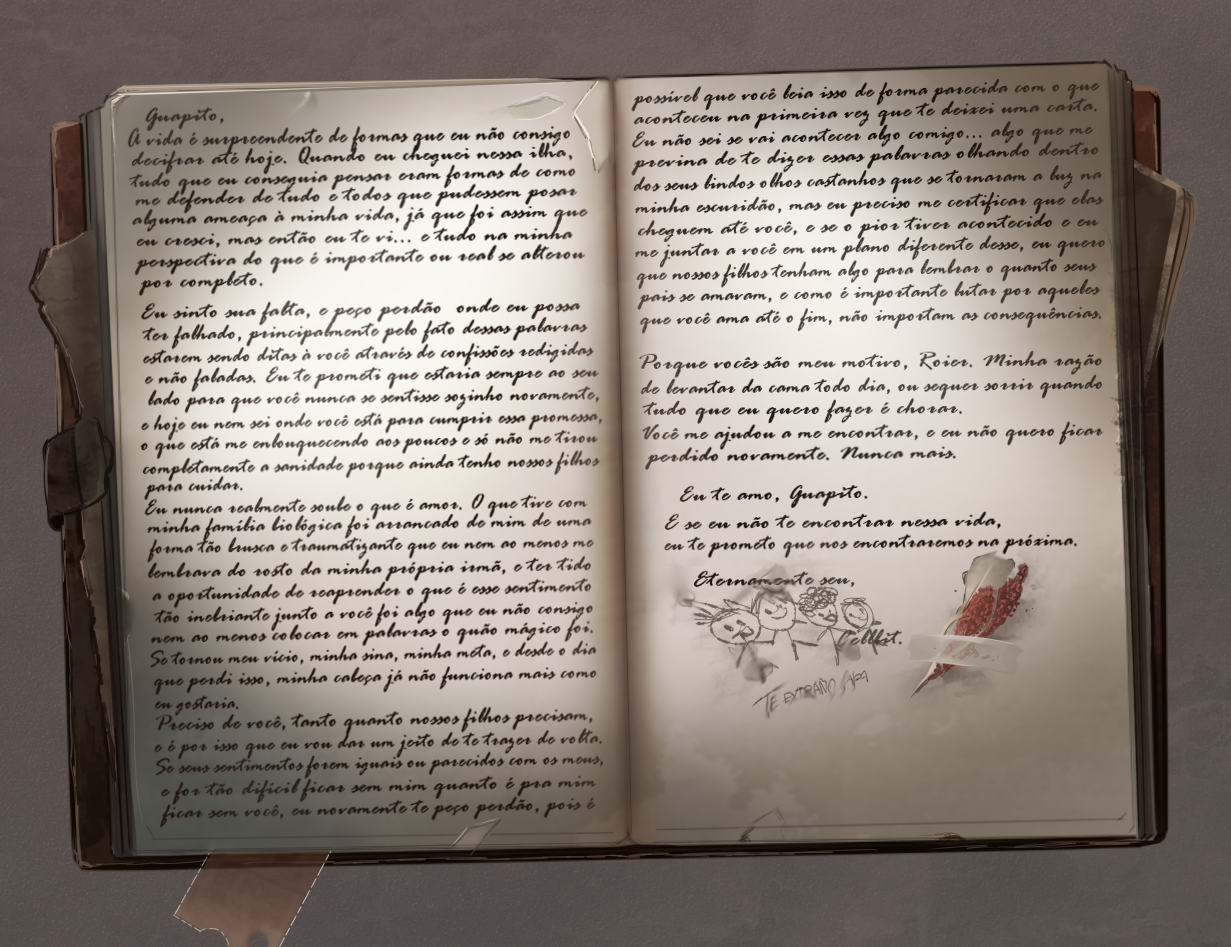
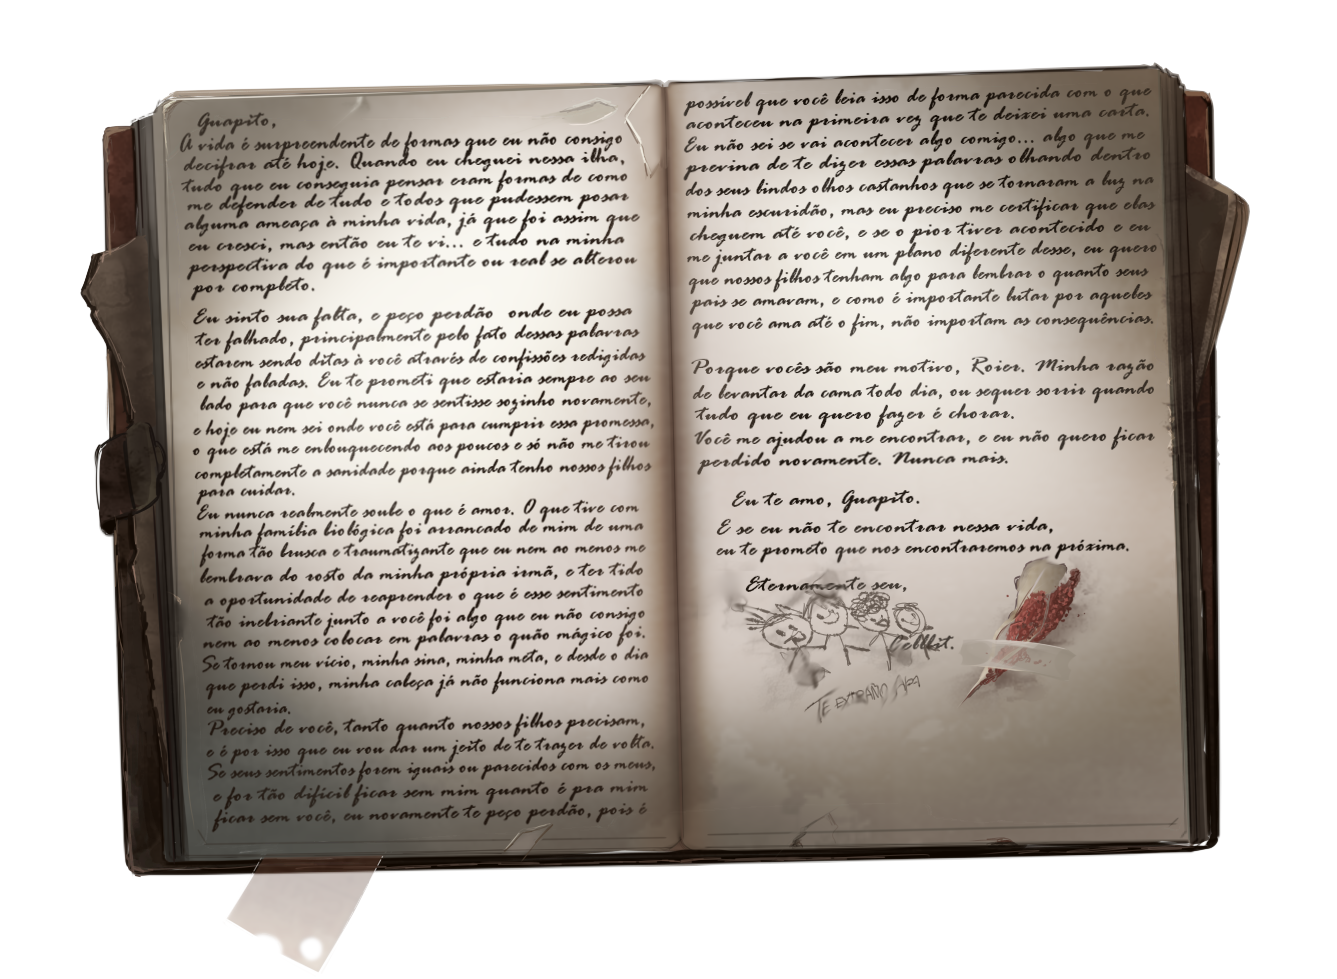
adiciona pag saud/faml && design das pag

diff --git a/src/layouts/PageLayout/index.tsx b/src/layouts/PageLayout/index.tsx
@@ -1,22 +1,28 @@
-import { Outlet } from "react-router-dom";
+import { Outlet, useLocation } from "react-router-dom";
 import Header from "../../components/Header";
 import FooterWip from "../../components/FooterWip";
+import HeaderPista from "../../components/HeaderPista";
+import FooterPista from "../../components/FooterPista";
 import styles from "./index.module.scss";
 import { useContext } from "react";
 import { ThemeContext } from '../../contexts/ThemeContext';
 
 const PageLayout = () =>{
     const { theme } = useContext(ThemeContext);
+    const location = useLocation();
 
     document.body.classList.add('background-main');
 
+    const paginasPistas = ['/sempreteamarei', '/saudade', '/familia'];
+    const isPaginasPistas = paginasPistas.includes(location.pathname);
+
     return(
         <>
-            <Header/>
+            {isPaginasPistas ? <HeaderPista /> : <Header/>}
             <main role="main" className={`${styles.main} ${styles[theme]}`}>
                 <Outlet/>
             </main>
-            <FooterWip/>
+            {isPaginasPistas ? <FooterPista /> : <FooterWip/>}
         </>
     );
 }

diff --git a/src/routes/index.tsx b/src/routes/index.tsx
@@ -5,6 +5,8 @@ import NotFound from "../pages/NotFound";
 import Perpetuo from "../pages/Perpetuo";
 import Wip from "../pages/Wip";
 import SempreTeAmarei from "../pages/SempreTeAmarei";
+import Saudade from "../pages/Saudade";
+import Familia from "../pages/Familia";
 
 export const Paths = () => {
     return (
@@ -16,6 +18,8 @@ export const Paths = () => {
                         <Route path={'/login'} element={<Login />} />
                         <Route path={'/perpetuo'} element={<Perpetuo />} />
                         <Route path={'/sempreteamarei'} element={<SempreTeAmarei />} />
+                        <Route path={'/saudade'} element={<Saudade />} />
+                        <Route path={'/familia'} element={<Familia />} />
                         {/* <Route index element={<Home />}/>
                         <Route path={'/Guapoverso'} element={<Guapoverso />}/>
                         <Route path={'/Categoria'}element={<Categoria />}/>

diff --git a/src/components/HeaderPista/index.tsx b/src/components/HeaderPista/index.tsx
@@ -1,0 +1,28 @@
+import { useContext } from "react";
+import { Link } from "react-router-dom";
+import styles from "./index.module.scss";
+import logo from "/image/components/Logo.png";
+import { ThemeContext } from "../../contexts/ThemeContext";
+import BotaoMudarTema from "../BotaoMudarTema";
+
+const Header = () => {
+
+  const { theme } = useContext(ThemeContext);
+
+  return (
+    <header className={`${styles.header} ${styles[theme]}`}>
+      <div className={`${styles.headerContent} wrapper`}>
+        <div className={styles.logoHeader}>
+          <div className={styles.logoHeaderImg}>
+            <img src={logo} alt="Logo do Acervo Amaranto" />
+          </div>
+          <div className={styles.logoHeaderText}>
+            <Link to="/">Acervo Amaranto</Link>
+          </div>
+        </div>
+      </div>
+    </header>
+  );
+};
+
+export default Header;

diff --git a/src/components/FooterPista/index.module.scss b/src/components/FooterPista/index.module.scss
@@ -1,0 +1,39 @@
+@use '../../styles/cores/cores' as *;
+
+.footer {
+    height: 194px;
+    position: fixed;
+    bottom: 0;
+    width: 100vw;
+    z-index: 1000;
+    display: flex;
+    background-color: transparent;
+    .logoFooterText span {
+        color: $dourado;
+    }
+    .logoFooter {
+        display: flex;
+        justify-content: center;
+        img {
+            width: 122px;
+        }
+    }
+
+    .logoFooterText {
+        display: flex;
+        flex-direction: column;
+        margin-block: auto;
+        justify-content: space-between;
+        span {
+            font-family: "Figtree";
+            font-weight: 700;
+            line-height: 1;
+            &:nth-child(1) {
+                font-size: 30px;
+            }
+            &:nth-child(2) {
+                font-size: 40px;
+            }
+        }
+    }
+}

diff --git a/src/components/FooterPista/index.tsx b/src/components/FooterPista/index.tsx
@@ -1,0 +1,26 @@
+import { useContext } from 'react';
+import { ThemeContext } from '../../contexts/ThemeContext';
+import logo from "/image/components/Logo.png";
+
+import styles from "./index.module.scss";
+
+const FooterWip = () =>{
+
+    const { theme } = useContext(ThemeContext);
+
+    return(
+        <footer className={`${styles.footer} ${styles[theme]}`}>
+            <div className={`${styles.logoFooter} wrapper`}>
+                <div className={styles.logoFooterImg}>
+                    <img src={logo} alt="Logo do Acervo Amaranto" />
+                </div>
+                <div className={styles.logoFooterText}>
+                    <span>Acervo</span>
+                    <span>Amaranto</span>
+                </div>
+            </div>
+        </footer>
+    );
+}
+
+export default FooterWip;

diff --git a/src/components/HeaderPista/index.module.scss b/src/components/HeaderPista/index.module.scss
@@ -1,0 +1,39 @@
+@import '../../styles/index.scss';
+
+.header {
+  display: flex;
+  align-items: center;
+  height: 64px;
+  position: fixed;
+  top: 0;
+  width: 100%;
+  background-color: transparent;
+  .logoHeaderText a {
+    color: $dourado;
+  }
+  .headerContent {
+    display: flex;
+    justify-content: space-between;
+    width: 100%;
+    .logoHeader {
+      display: flex;
+      cursor: pointer;
+      img {
+        width: 55px;
+      }
+      .logoHeaderText {
+        display: flex;
+        margin-block: auto;
+        justify-content: center;
+        font-size: 18px;
+        a {
+          font-family: "Figtree";
+          // acho q um mais perto do bold fica melhor
+          font-weight: 600;
+          // font-weight: 470;
+          line-height: 1;
+        }
+      }
+    }
+  }
+}

diff --git a/src/pages/SempreTeAmarei/index.module.scss b/src/pages/SempreTeAmarei/index.module.scss
@@ -1,7 +1,22 @@
 div.container {
-    margin-top: 64px;
     display: flex;
     justify-content: center;
-    z-index: 900;
-    height: calc(100vh - 64px - 193px);
+    height: 100vh;
+    background-image: url("../../../public/image/iefgda/background-livro.png");
+    background-size: cover;
+    img {
+        max-height: calc(100vh - 64px - 193px);
+        margin-top: 64px;
+    }
 }
+
+@media (max-width: 1024px) {
+    div.container {
+        img {
+            max-width: 100vw;
+            height: auto;
+            object-fit: contain;
+        }
+    }
+}
+

diff --git a/src/pages/Familia/index.tsx b/src/pages/Familia/index.tsx
@@ -1,0 +1,16 @@
+import { Helmet } from 'react-helmet';
+import aquilo from '/image/iefgda/Richas FAMÍLIA.png?url';
+import styles from './index.module.scss';
+const SempreTeAmarei = () => {
+
+  return (
+    <>
+      <Helmet> <title> Família </title> </Helmet>
+      <div className={styles.container} >
+        <img src={aquilo} className={styles.imagem} alt="guapoduo" />
+      </div>
+    </>
+  )
+}
+
+export default SempreTeAmarei;

diff --git a/src/pages/Saudade/index.tsx b/src/pages/Saudade/index.tsx
@@ -1,0 +1,16 @@
+import { Helmet } from 'react-helmet';
+import aquilo from '/image/iefgda/Pepito SAUDADE.png?url';
+import styles from './index.module.scss';
+const SempreTeAmarei = () => {
+
+  return (
+    <>
+      <Helmet> <title> Saudade </title> </Helmet>
+      <div className={styles.container} >
+        <img src={aquilo} className={styles.imagem} alt="guapoduo" />
+      </div>
+    </>
+  )
+}
+
+export default SempreTeAmarei;

diff --git a/src/pages/Familia/index.module.scss b/src/pages/Familia/index.module.scss
@@ -1,0 +1,11 @@
+div.container {
+    display: flex;
+    justify-content: center;
+    height: 100vh;
+    background-image: url("../../../public/image/iefgda/background-livro.png");
+    background-size: cover;
+    img {
+        height: calc(100vh - 64px - 193px);
+        margin-top: 64px;
+    }
+}

diff --git a/src/pages/Saudade/index.module.scss b/src/pages/Saudade/index.module.scss
@@ -1,0 +1,11 @@
+div.container {
+    display: flex;
+    justify-content: center;
+    height: 100vh;
+    background-image: url("../../../public/image/iefgda/background-livro.png");
+    background-size: cover;
+    img {
+        height: calc(100vh - 64px - 193px);
+        margin-top: 64px;
+    }
+}
